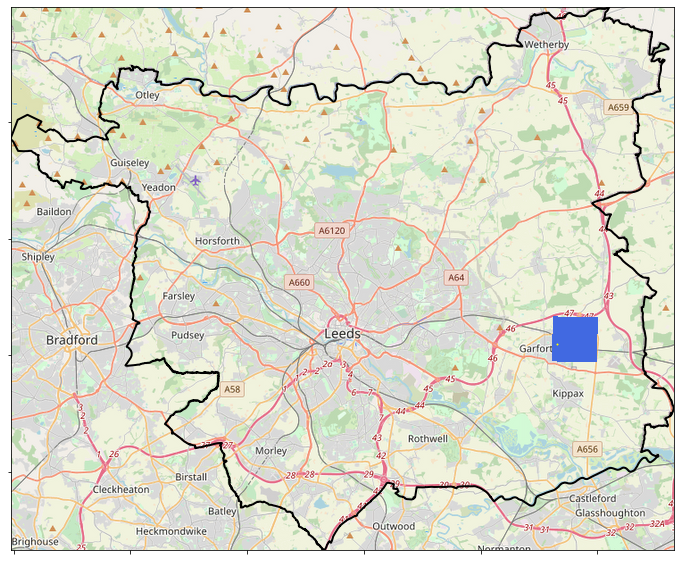
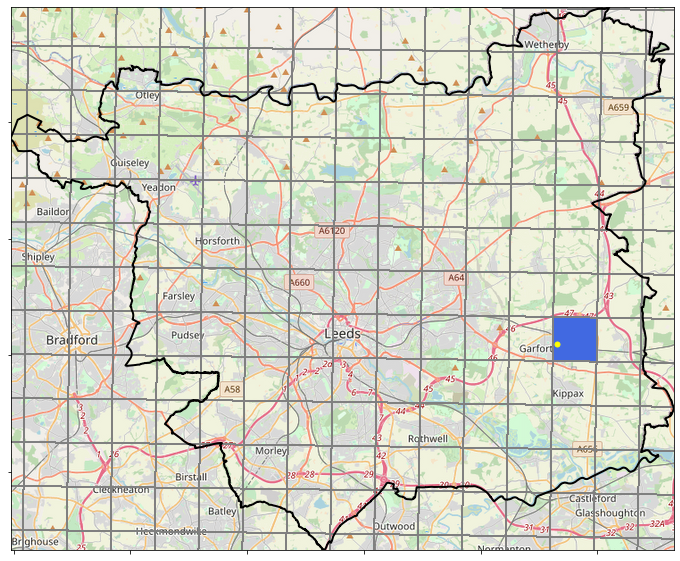
.

diff --git a/Regridding/Compare_regridding_PDFs.py b/Regridding/Compare_regridding_PDFs.py
@@ -1,5 +1,5 @@
 def find_closest_coordinates(cube, sample_point, n_closest_points):
-    # Define the names of the coordinate variables
+    # Define names of coordinate variables
     coord_names = [coord.name() for coord in cube.coords()]
     
     # Create variables storing lats/lons (or equivalent variables)
@@ -38,19 +38,18 @@ def find_closest_coordinates(cube, sample_point, n_closest_points):
         # Store the sample point of interest as a tuples (with their coordinate name) in a list
         sample_point = [('grid_latitude', target_xy[1]), ('grid_longitude', target_xy[0])]       
     
-    # If they are not in rotated pole, then they are in OSGB36
-    # in this case convert the sample point to the same coordinate system
     else:
       lon_osgb36,lat_osgb36= transform(Proj(init='epsg:4326'),Proj(init='epsg:27700'),sample_point[1][1],sample_point[0][1])
       #lon_osgb36, lat_osgb36 = transform({'init' :'epsg:4326'}, {'init' :'epsg:27700'}, sample_point[0][1],sample_point[1][1 )
       sample_point = [('grid_latitude', lat_osgb36), ('grid_longitude', lon_osgb36)]
     
     # Find the indexes of the closest points to this sample location
+    tree = spatial.KDTree(locations)
     closest_point_idxs = tree.query([(sample_point[0][1], sample_point[1][1])], k = n_closest_points)[1][0]
     
     # If there is only one closest point index, then convert this to an array (so in same format as if there were more than 1) 
     if isinstance(closest_point_idxs, np.int64) :
-        closest_point_idxs = np.array([closest_point_idxs_1])   
+        closest_point_idxs = np.array([closest_point_idxs])   
         
     # Return locations to uncorrected versions
     locations = list(itertools.product(lats, lons))    
@@ -73,7 +72,7 @@ def check_location_of_closestpoint (cube, input_crs, target_crs, sample_point, c
     # Create a test dataset with all points with same value
     # Set value at the index returned above to something different
     # And then plot data spatially, and see which grid cell is highlighted.   
-    closest_point_idx = closest_point_idx[0]
+    #closest_point_idx = closest_point_idx[0]
     test_data = np.full((cube[0].shape), 0, dtype=int)
     if closest_point_idx is not None:
       test_data_rs = test_data.reshape(-1)
@@ -114,9 +113,9 @@ def check_location_of_closestpoint (cube, input_crs, target_crs, sample_point, c
     #norm = mpl.colors.BoundaryNorm(bounds, cmap.N)
     
     fig, ax = plt.subplots(figsize=(20,10))
-    #extent = tilemapbase.extent_from_frame(leeds_gdf)
-    #plot = plotter = tilemapbase.Plotter(extent, tilemapbase.tiles.build_OSM(), width=600)
-    #plot =plotter.plot(ax)
+    extent = tilemapbase.extent_from_frame(leeds_gdf)
+    plot = plotter = tilemapbase.Plotter(extent, tilemapbase.tiles.build_OSM(), width=600)
+    plot =plotter.plot(ax)
     # Add edgecolor = 'grey' for lines
     plot =ax.pcolormesh(lons_cornerpoints, lats_cornerpoints, test_data,
                   linewidths=1, alpha = 1, cmap = cmap, edgecolors = 'grey')
@@ -339,9 +338,8 @@ rg_cube = create_trimmed_cube(leeds_at_centre_gdf, rg_string, {'init' :'epsg:432
 ################################################################
 # Find the coordinates of the grid cell containing the point of interest
 ################################################################   
-rg_closest_coordinates = find_closest_coordinates(rg_cube, sample_point, 9) 
-rf_closest_coordinates_old= find_closest_coordinates_old(rf_cube, sample_point)    
-rf_closest_coordinates_new= find_closest_coordinates(rf_cube, sample_point,9)    
+rg_closest_coordinates = find_closest_coordinates(rg_cube, sample_point, 1) 
+rf_closest_coordinates =  find_closest_coordinates(rf_cube, sample_point,1)    
 
 ############################################################################
 # Create a cube containing just the timeseries for that location of interest
@@ -358,20 +356,20 @@ rf_time_series_cube = rf_cube.extract(iris.Constraint(projection_y_coordinate=rf
 check_location_of_closestpoint(rg_cube, {'init' :'epsg:4326'},  {'init' :'epsg:3785'}, 
                                sample_point, rg_closest_coordinates[0] )
 check_location_of_closestpoint(rf_cube, {'init' :'epsg:27700'},  {'init' :'epsg:3785'} , 
-                               sample_point, rf_closest_coordinates_new[0])
+                               sample_point, rf_closest_coordinates[0])
 
 print("Creating dataframe")
 rg_df =pd.DataFrame({"time_stamp" : rg_time_series_cube.coord('time').points,
                      "Rainfall": rg_time_series_cube.data})
 rg_df['Date_formatted']  = pd.to_datetime(rg_df['time_stamp'], unit='s')\
                .dt.strftime('%Y-%m-%d %H:%M:%S')
-rg_df.to_csv("rg_df.csv", index = False)
+rg_df.to_csv("rg_df_westleeds.csv", index = False)
 
 print("Creating dataframe")
-rf_df =pd.DataFrame({"time_stamp" : rf_time_series_cube.coord('time').points})
-                    #  "Rainfall": rf_time_series_cube.data})
+rf_df =pd.DataFrame({"time_stamp" : rf_time_series_cube.coord('time').points,
+                     "Rainfall": rf_time_series_cube.data})
 rf_df['Date_formatted']  = pd.to_datetime(rf_df['time_stamp'], unit='s')\
                 .dt.strftime('%Y-%m-%d %H:%M:%S')
-rf_df.to_csv("rf_df.csv", index = False)
+rf_df.to_csv("rf_df_westleeds.csv", index = False)
 
 

diff --git a/Regridding/Check_reformat.py b/Regridding/Check_reformat.py
@@ -1,0 +1,110 @@
+'''
+Reformatting of CEH-GEAR data is required as Iris seems to struggle with processing it.
+Want to check that this reformatting doesn't alter the data.
+This file loads in an example of an original cube and a reformatted cube for one month.
+It loops through timesteps and checks the mean and max value for the original and reformatted cubes
+and records the largest difference between the two.
+'''
+
+############################################
+# Define variables and set up environment
+#############################################
+root_fp = "/nfs/a319/gy17m2a/"
+#root_fp = "C:/Users/gy17m2a/OneDrive - University of Leeds/PhD/DataAnalysis/"
+os.chdir(root_fp)
+
+####################################################################
+# Load native version of cube, reformatted cube and regridded cube
+####################################################################
+#Filename of cube
+filename = "datadir/CEH-GEAR/CEH-GEAR-1hr_199001.nc"
+
+# Load cube in its native format
+cube = iris.load(filename)[5]
+
+# Filename of reformatted cube
+filename_reformat = filename.replace("datadir/CEH-GEAR/", "Outputs/CEH-GEAR_reformatted/rf_")
+cube_rfmt = iris.load(filename_reformat)[0]
+
+# Filename of regridded cube
+filename_regrid = filename.replace("datadir/CEH-GEAR/", "Outputs/CEH-GEAR_regridded_2.2km/rg_")
+cube_rgd = iris.load(filename_regrid)[0]
+
+####################################################################
+# Check the maximum difference betwen the mean and max in the original 
+# and reformatted cubes
+####################################################################
+max_mean_diff = 0
+max_max_diff = 0
+
+for frame in range(100,200):
+    #print(frame)
+    rfmt_cube = cube_rfmt[frame]
+    rfmt_cube_data = rfmt_cube.data
+    rfmt_max = np.nanmax(rfmt_cube_data)
+    rfmt_mean = np.nanmean(rfmt_cube_data)
+    
+    orig_cube = cube[frame]
+    cube_data = orig_cube.data
+    cube_max = np.nanmax(cube_data)
+    cube_mean = np.nanmean(cube_data)
+    
+    max_mean_diff = (rfmt_mean - cube_mean) if (rfmt_mean - cube_mean) > max_mean_diff else max_mean_diff
+    max_max_diff = (rfmt_max - cube_max) if (rfmt_max - cube_max) > max_max_diff else max_max_diff
+
+####################################################################
+# Checking plotting
+####################################################################
+import matplotlib.pyplot as plt
+
+# month_uk_cube = cube_rgd
+# hour = month_uk_cube[frame]
+# #Extract the data
+# hour_data = hour.data
+# np.nanmean(hour_data)
+# np.nanmax(hour_data)
+# # Flip the data so it's not upside down
+# hour_data_fl = np.flipud(hour_data)
+# # Fill empty values with NaN
+# hour_data_fl = hour_data_fl.filled(np.nan)  
+
+# contour = plt.contourf(hour_data, cmap=precip_colormap)
+# contour = plt.colorbar()
+# contour =plt.axes().set_aspect('equal') 
+
+
+# month_uk_cube = cube_rfmt
+# hour= month_uk_cube[frame]
+# #Extract the data
+# hour_data = hour.data
+# np.nanmean(hour_data)
+# np.nanmax(hour_data)
+# # Flip the data so it's not upside down
+# hour_data_fl = np.flipud(hour_data)
+# # Fill empty values with NaN
+# hour_data_fl = hour_data_fl.filled(np.nan)  
+
+# contour = plt.contourf(hour_data_fl, cmap=precip_colormap)
+# contour = plt.colorbar()
+# contour =plt.axes().set_aspect('equal') 
+
+
+# month_uk_cube = cube
+# hour = month_uk_cube[frame]
+# #Extract the data
+# hour_data = hour.data
+# np.nanmean(hour_data)
+# np.nanmax(hour_data)
+# # Flip the data so it's not upside down
+# hour_data_fl = np.flipud(hour_data)
+# # Fill empty values with NaN
+# hour_data_fl = hour_data_fl.filled(np.nan)  
+
+# contour = plt.contourf(hour_data_fl, cmap=precip_colormap)
+# contour = plt.colorbar()
+# contour =plt.axes().set_aspect('equal') 
+
+
+# qplt.contourf(hour, cmap=precip_colormap)
+# qplt.contourf(hour_rfmt, cmap=precip_colormap)
+# qplt.contourf(hour_rgd, cmap=precip_colormap)
